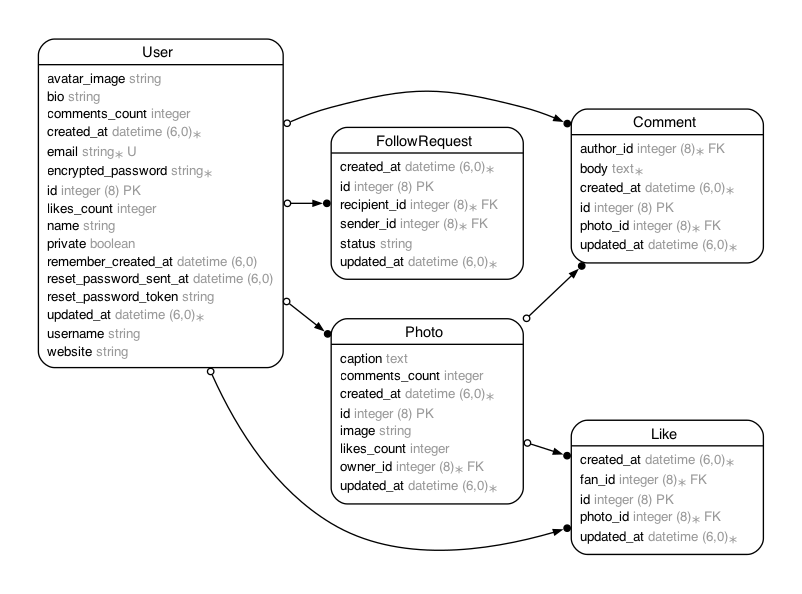
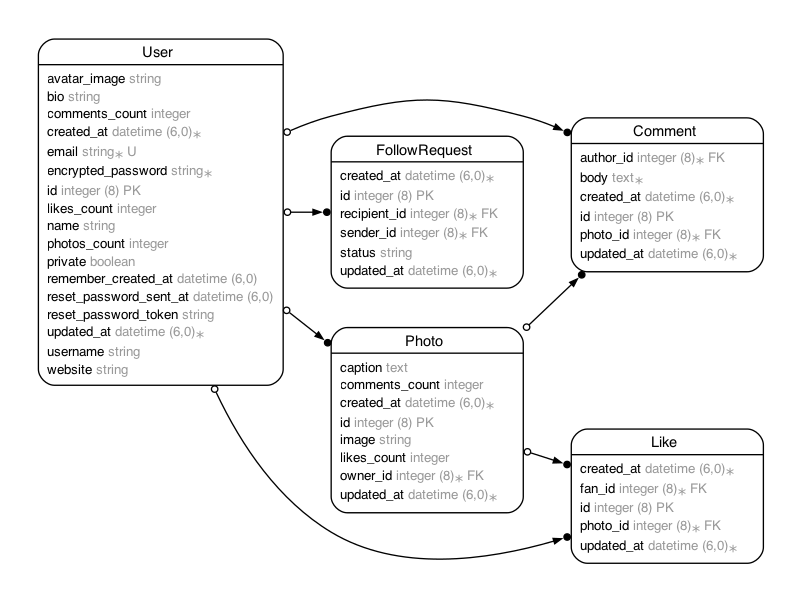
added countercache in the model

diff --git a/db/schema.rb b/db/schema.rb
@@ -10,7 +10,7 @@
 #
 # It's strongly recommended that you check this file into your version control system.
 
-ActiveRecord::Schema[8.0].define(version: 2025_06_04_194741) do
+ActiveRecord::Schema[8.0].define(version: 2025_06_16_140840) do
   # These are extensions that must be enabled in order to support this database
   enable_extension "citext"
   enable_extension "pg_catalog.plpgsql"
@@ -229,6 +229,7 @@ ActiveRecord::Schema[8.0].define(version: 2025_06_04_194741) do
     t.integer "comments_count", default: 0
     t.datetime "created_at", null: false
     t.datetime "updated_at", null: false
+    t.integer "photos_count"
     t.index ["email"], name: "index_users_on_email", unique: true
     t.index ["reset_password_token"], name: "index_users_on_reset_password_token", unique: true
     t.index ["username"], name: "index_users_on_username", unique: true

diff --git a/app/models/user.rb b/app/models/user.rb
@@ -10,6 +10,7 @@
 #  encrypted_password     :string           default(""), not null
 #  likes_count            :integer          default(0)
 #  name                   :string
+#  photos_count           :integer
 #  private                :boolean
 #  remember_created_at    :datetime
 #  reset_password_sent_at :datetime

diff --git a/spec/models/user_spec.rb b/spec/models/user_spec.rb
@@ -10,6 +10,7 @@
 #  encrypted_password     :string           default(""), not null
 #  likes_count            :integer          default(0)
 #  name                   :string
+#  photos_count           :integer
 #  private                :boolean
 #  remember_created_at    :datetime
 #  reset_password_sent_at :datetime

diff --git a/app/models/comment.rb b/app/models/comment.rb
@@ -19,6 +19,6 @@
 #  fk_rails_...  (photo_id => photos.id)
 #
 class Comment < ApplicationRecord
-  belongs_to :author, class_name: "User"
-  belongs_to :photo
+  belongs_to :author, class_name: "User", counter_cache: true
+  belongs_to :photo, counter_cache: true
 end

diff --git a/app/models/like.rb b/app/models/like.rb
@@ -19,6 +19,6 @@
 #  fk_rails_...  (photo_id => photos.id)
 #
 class Like < ApplicationRecord
-  belongs_to :fan, class_name: "User"
-  belongs_to :photo
+  belongs_to :fan, class_name: "User", counter_cache: true
+  belongs_to :photo, counter_cache: true
 end

diff --git a/app/models/photo.rb b/app/models/photo.rb
@@ -20,6 +20,6 @@
 #  fk_rails_...  (owner_id => users.id)
 #
 class Photo < ApplicationRecord
-  belongs_to :owner, class_name: "User"
+  belongs_to :owner, class_name: "User", counter_cache: true
   has_many :comments
 end

diff --git a/db/migrate/20250616140840_add_photos_count_to_users.rb b/db/migrate/20250616140840_add_photos_count_to_users.rb
@@ -1,0 +1,5 @@
+class AddPhotosCountToUsers < ActiveRecord::Migration[8.0]
+  def change
+    add_column :users, :photos_count, :integer
+  end
+end
